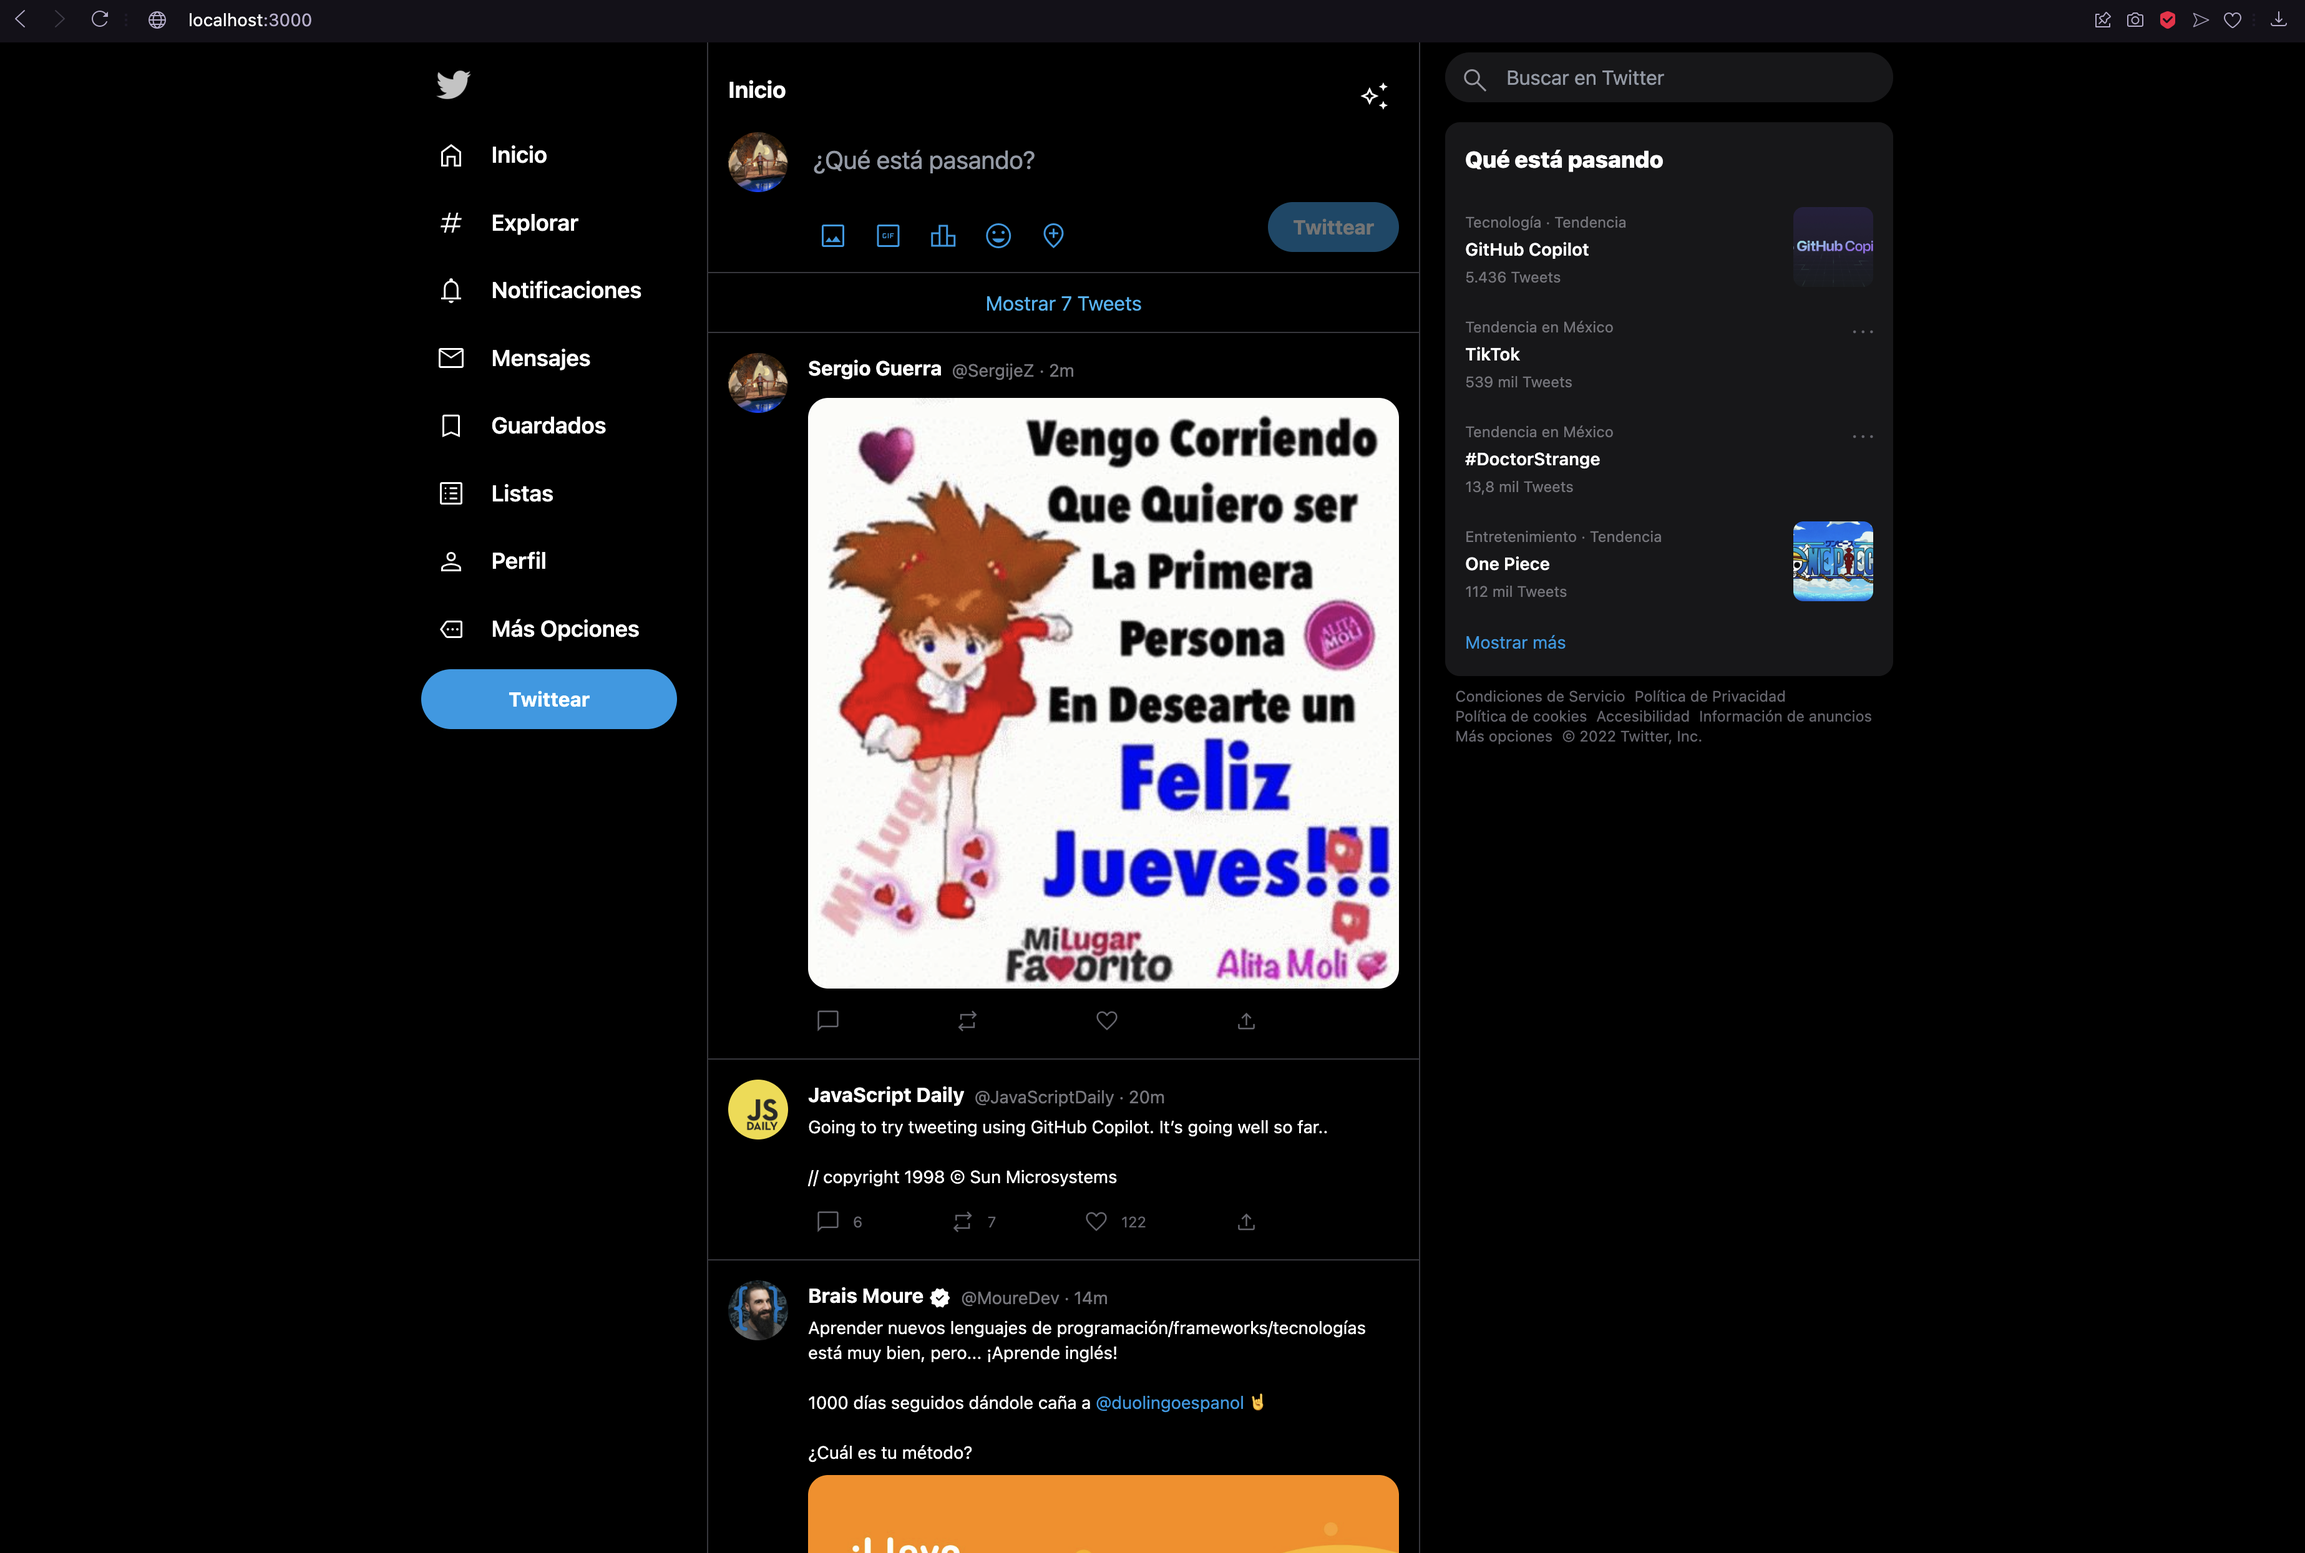
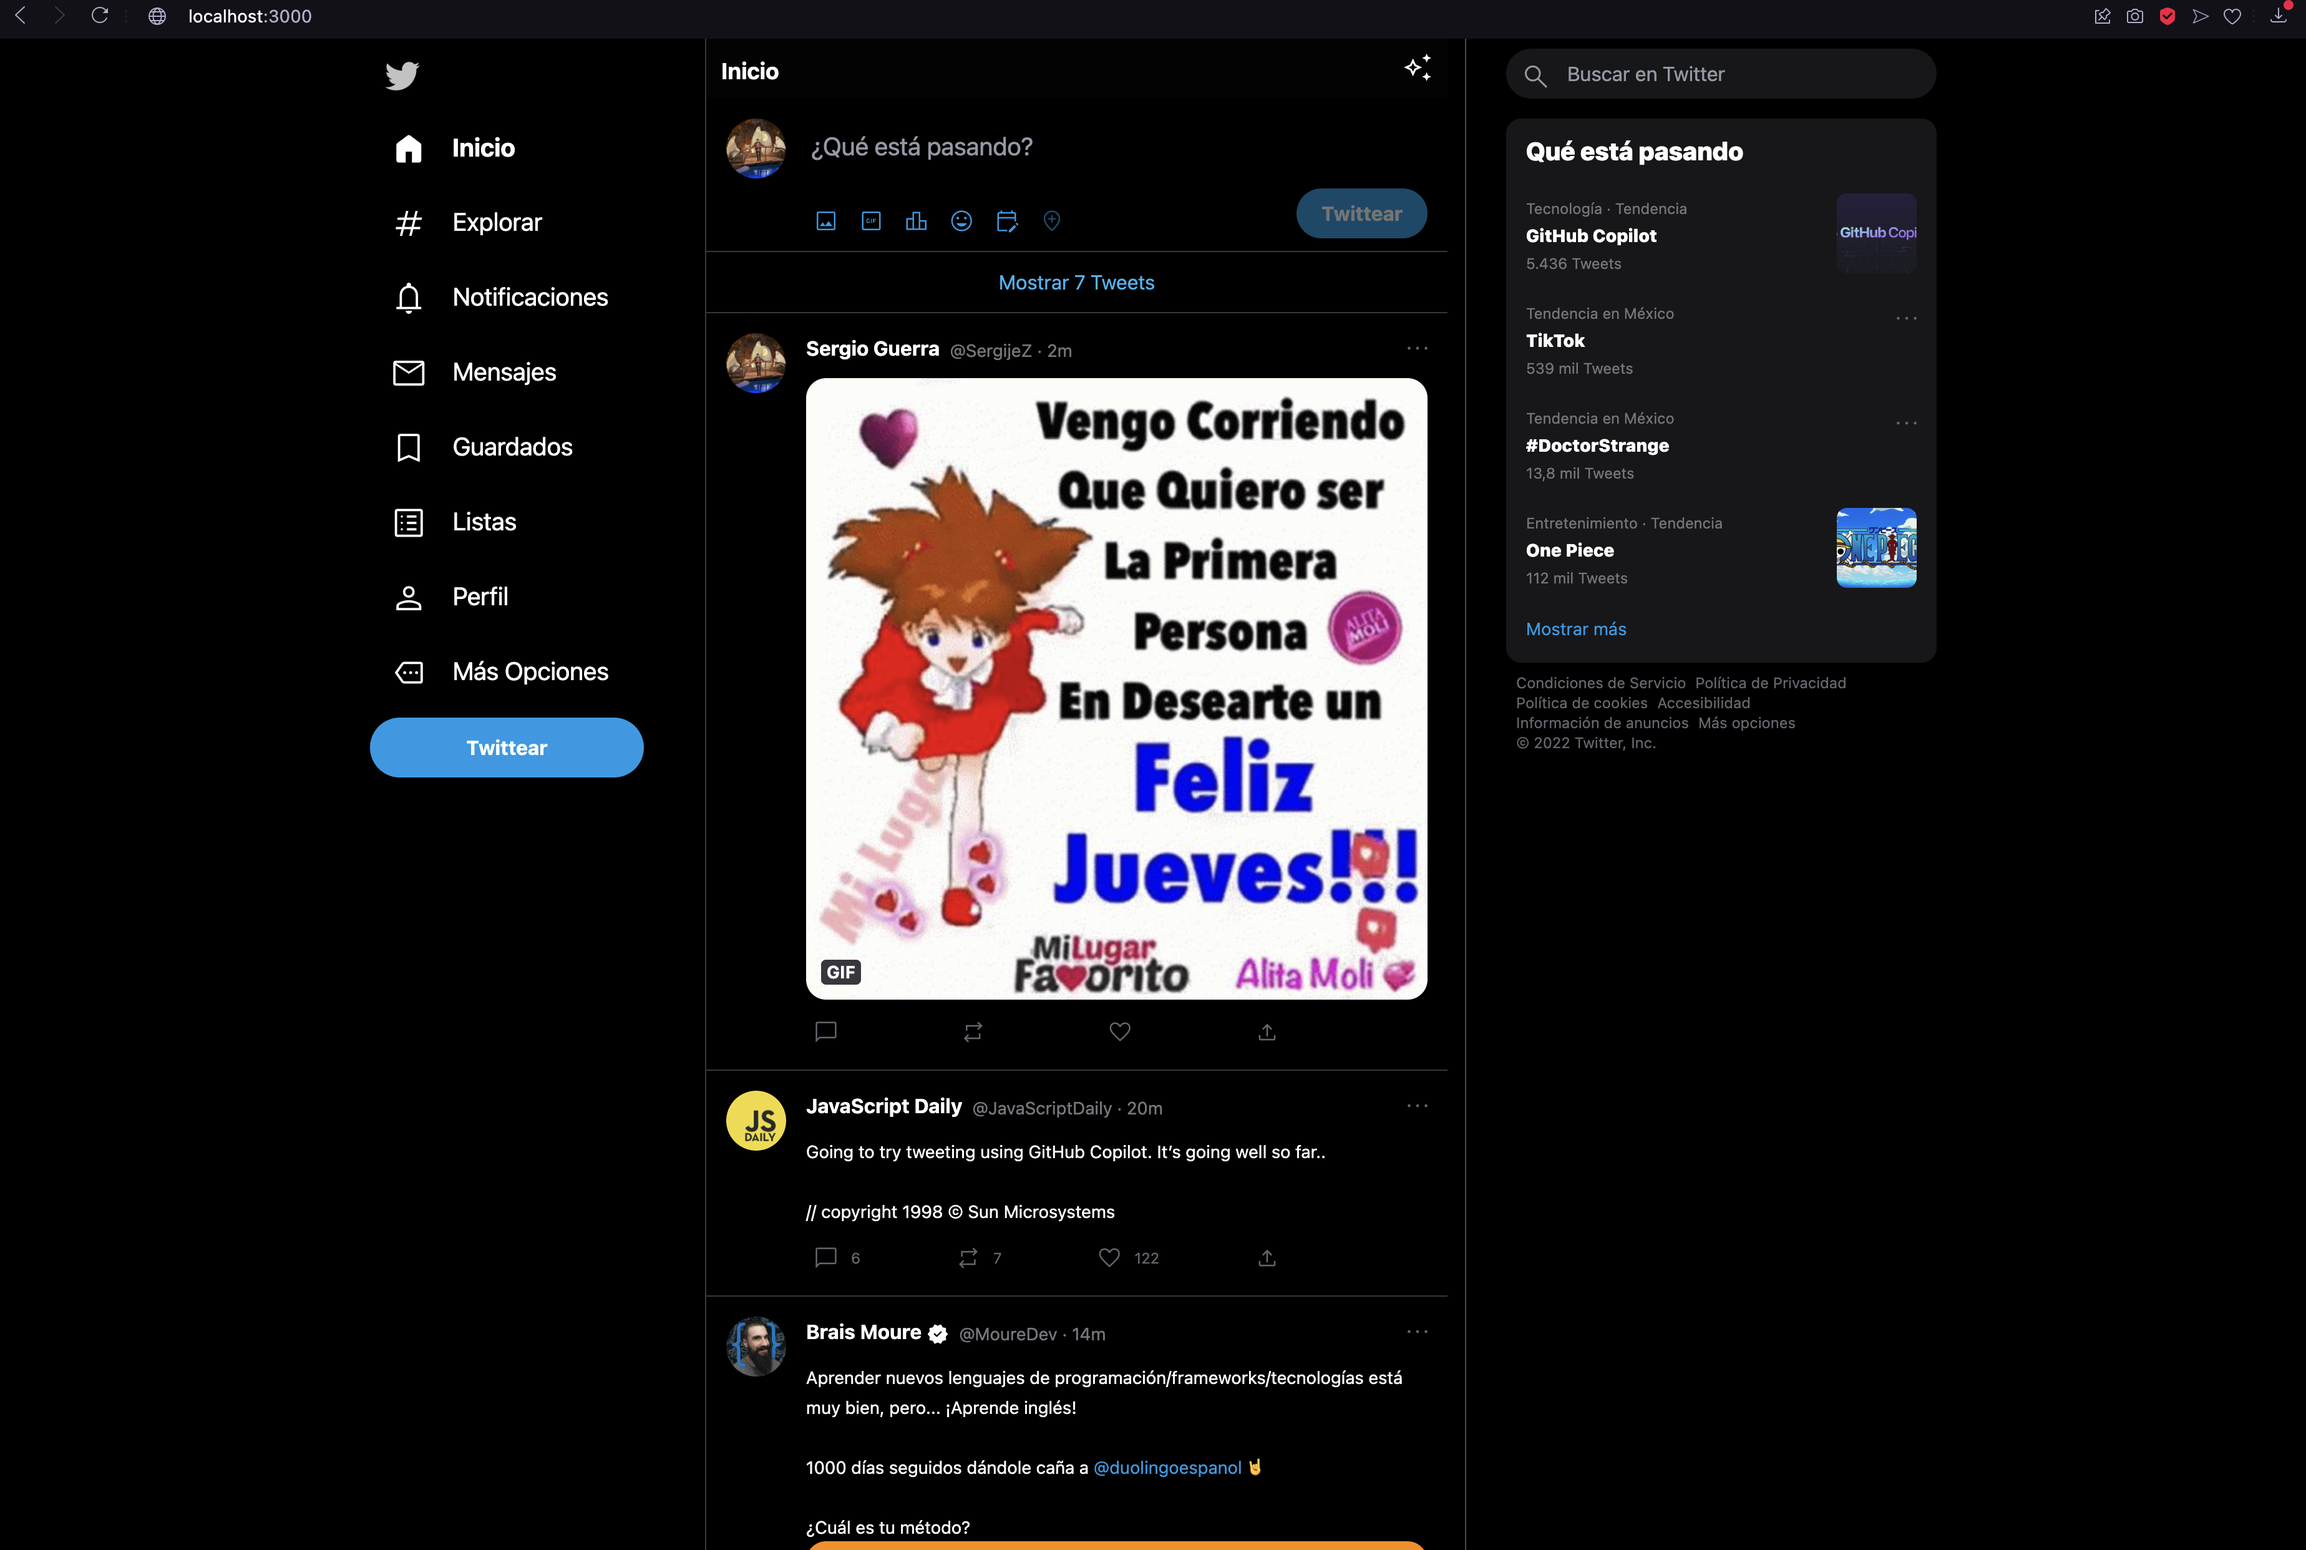
Build: Similar desktop disposition

diff --git a/src/components/TweetNavigation.svelte b/src/components/TweetNavigation.svelte
@@ -11,9 +11,11 @@
 
     const navigationList = [
       {
-        label: 'Twitter', type: NAVIGATION_ITEM_TYPES.ImageOnly, icon: 'https://cdn-icons-png.flaticon.com/512/733/733579.png', selected: true,
+        label: 'Twitter', type: NAVIGATION_ITEM_TYPES.ImageOnly, icon: 'https://cdn-icons-png.flaticon.com/512/733/733579.png',
       },
-      { label: 'Inicio', type: NAVIGATION_ITEM_TYPES.FontIcon, icon: 'e88a' },
+      {
+        label: 'Inicio', type: NAVIGATION_ITEM_TYPES.FontIcon, icon: 'e88a', selected: true,
+      },
       { label: 'Explorar', type: NAVIGATION_ITEM_TYPES.FontIcon, icon: 'e9ef' },
       { label: 'Notificaciones', type: NAVIGATION_ITEM_TYPES.FontIcon, icon: 'e7f4' },
       { label: 'Mensajes', type: NAVIGATION_ITEM_TYPES.FontIcon, icon: 'e158' },
@@ -28,24 +30,23 @@
 <section class="relative w-2/5 float-right">
     <ul class="cursor-default fixed">
         {#each navigationList as navigationItem}
-            <li class="m-2" class:fontBold="{navigationItem.selected === true}">
+            <li class="py-1 {navigationItem.selected ? 'font-bold' : ''}">
                 {#if navigationItem.type === NAVIGATION_ITEM_TYPES.ImageOnly}
                     <button class="hover:bg-sky-900/25 p-3 rounded-full">
-                        <img src={navigationItem.icon} alt={navigationItem.label} class="w-7 grayscale brightness-200">
+                        <img src={navigationItem.icon} alt={navigationItem.label} class="w-7 grayscale brightness-200 contrast-200">
                     </button>
                 {:else if navigationItem.type === NAVIGATION_ITEM_TYPES.Button}
                     <TweetButton className="w-full py-3 " value={navigationItem.label}/>
                 {:else}
-                    <button class="hover:bg-neutral-900 rounded-3xl inline py-2 px-2">
+                    <button class="hover:bg-neutral-900 rounded-3xl inline py-1.5 px-3">
                         {#if navigationItem.type === NAVIGATION_ITEM_TYPES.Image || navigationItem.type === NAVIGATION_ITEM_TYPES.ImageOnly}
                             <img src={navigationItem.icon} alt={navigationItem.label} class="w-6">
                         {:else if navigationItem.type === NAVIGATION_ITEM_TYPES.FontIcon}
-                            <TweetIcon icon={navigationItem.icon} className="align-middle pb-1 pl-1"/>
+                            <TweetIcon icon={navigationItem.icon} className="align-middle pb-1 pl-1 text-3xl" variation={navigationItem.selected ? 'rounded' : 'outlined'}/>
                         {/if}
-                        <span class="mx-4 font-semibold text-lg">{navigationItem.label}</span>
+                        <span class="mx-4 text-xl">{navigationItem.label}</span>
                     </button>
                 {/if}
-
             </li>
         {/each}
     </ul>

diff --git a/src/components/TweetFeedHeader.svelte b/src/components/TweetFeedHeader.svelte
@@ -44,21 +44,21 @@
     <section class="flex justify-between my-2 " >
         <TweetAvatar src={avatarSrc} className="mr-5"/>
         <section class="grow">
-            <div class="border w-24 mb-2 border-sky-100/50 text-sky-500 rounded-3xl text-xs font-bold text-center cursor-pointer hover:bg-sky-900/25 {isTweetFocused ? 'visible' : 'hidden'}">
-                <span>Público</span>
+            <div class="border w-24 mb-2 border-sky-100/50 text-sky-500 rounded-3xl text-sm font-semibold text-center cursor-pointer hover:bg-sky-900/25 {isTweetFocused ? 'visible' : 'hidden'}">
+                <span class="align-middle">Público</span>
                 <TweetIcon icon={Icons.ExpandMore} className="align-middle"/>
             </div>
             <textarea rows={tweetRows} class="bg-black outline-none w-full resize-none peer text-xl h-10 pt-2 overflow-hidden" placeholder="¿Qué está pasando?" on:keyup={onTweetKeyUp} on:input={onTweetInput} on:focus={onTweetFocus} bind:value={tweetContent}/>
         </section>
     </section>
     <section class="flex justify-between">
-        <section class="pl-16 pt-2">
-            <TweetIconButton icon={Icons.Image} className="text-sky-500 hover:bg-sky-900/25"/>
-            <TweetIconButton icon={Icons.GifBox} className="text-sky-500 hover:bg-sky-900/25"/>
-            <TweetIconButton icon={Icons.Leaderboard} className="text-sky-500 hover:bg-sky-900/25"/>
-            <TweetIconButton icon={Icons.Mood} className="text-sky-500 hover:bg-sky-900/25"/>
-            <TweetIconButton icon={Icons.EditCalendar} className="text-sky-500 hover:bg-sky-900/25"/>
-            <TweetIconButton icon={Icons.AddLocation} className="text-sky-500/50 hover:bg-sky-900/25" disabled={true}/>
+        <section class="pl-16 pt-2 shrink w-80">
+            <TweetIconButton icon={Icons.Image} className="text-sky-500 hover:bg-sky-900/25" iconClassName="text-xl" size="sm"/>
+            <TweetIconButton icon={Icons.GifBox} className="text-sky-500 hover:bg-sky-900/25" iconClassName="text-xl"size="sm"/>
+            <TweetIconButton icon={Icons.Leaderboard} className="text-sky-500 hover:bg-sky-900/25" iconClassName="text-xl" size="sm"/>
+            <TweetIconButton icon={Icons.Mood} className="text-sky-500 hover:bg-sky-900/25" iconClassName="text-xl" size="sm"/>
+            <TweetIconButton icon={Icons.EditCalendar} className="text-sky-500 hover:bg-sky-900/25" iconClassName="text-xl" size="sm"/>
+            <TweetIconButton icon={Icons.AddLocation} className="text-sky-500/50 hover:bg-sky-900/25" disabled={true} iconClassName="text-xl" size="sm"/>
         </section>
         <TweetButton value="Twittear" className="justify-end h-10 {!isTweetActive ? 'opacity-50 cursor-default' : ''}"/>
     </section>

diff --git a/src/views/TweetFeed.svelte b/src/views/TweetFeed.svelte
@@ -109,13 +109,13 @@
   ]
 </script>
 
-<section class="flex flex-col relative">
+<section class="flex flex-col relative w-11/12">
     <header class="h-12 left-0 top-0 flex justify-between w-full backdrop-blur sticky bg-zinc-900/25 p-1 z-10 cursor-pointer">
         <span class="font-bold text-lg p-2">Inicio</span>
         <TweetIconButton icon={Icons.AutoAwesome} className="hover:bg-zinc-400/25"/>
     </header>
     <TweetFeedHeader className="shrink"/>
-    <span class="h-12 text-center py-3 border-b border-zinc-700 hover:bg-zinc-900/50 cursor-pointer text-sky-400">Mostrar 7 Tweets</span>
+    <span class="h-13 text-center py-3 border-b border-zinc-700 hover:bg-zinc-900/50 cursor-pointer text-sky-400">Mostrar 7 Tweets</span>
     <ul class="grow">
         {#each tweets as tweet}
             <Tweet tweet={tweet}/>

diff --git a/src/components/TweetBoxItem.svelte b/src/components/TweetBoxItem.svelte
@@ -15,6 +15,6 @@
         <TweetIconButton icon={Icons.MoreHorizontal} size="sm" className="text-sm absolute right-2 top-2 text-zinc-500 hover:bg-sky-900/25 hover:text-sky-500"/>
     {/if}
     <span class="text-zinc-400/75 text-xs py-1">{boxItem.topic}</span>
-    <span class="text-white text-sm font-semibold">{boxItem.name}</span>
+    <span class="text-white text-sm font-extrabold">{boxItem.name}</span>
     <span class="text-zinc-400/75 text-xs py-1">{`${boxItem.tweets} Tweets`}</span>
 </li>

diff --git a/src/views/RightPane.svelte b/src/views/RightPane.svelte
@@ -20,8 +20,8 @@
       ],
     }
 </script>
-<section class="border-l border-zinc-700 float-right w-8/12 relative">
-    <section class="w-full sticky top-0 left-0 pl-5 py-2">
+<section class="border-l border-zinc-600 float-right w-7/12 relative -m-10">
+    <section class="w-full sticky top-0 left-0 pl-8 py-2">
       <TweetSearchInput/>
       <TweetBox boxData={boxData}/>
     </section>

diff --git a/src/components/TweetBox.svelte b/src/components/TweetBox.svelte
@@ -12,7 +12,7 @@
 </script>
 
 <section class="rounded-xl mt-4 bg-zinc-900">
-    <h1 class="text-lg font-extrabold py-4 mx-4">{boxData.name}</h1>
+    <h1 class="text-xl font-extrabold py-3 mx-4">{boxData.name}</h1>
     <ul class="w-full cursor-pointer">
         {#each boxData.items as boxItem}
             <TweetBoxItem boxItem={boxItem}/>

diff --git a/src/App.svelte b/src/App.svelte
@@ -4,7 +4,7 @@
   import RightPane from './views/RightPane.svelte'
 </script>
 
-<main class="grid grid-cols-3 w-11/12">
+<main class="grid grid-cols-3 -ml-20">
   <LeftPane/>
   <TweetFeed/>
   <RightPane/>

diff --git a/COMMENTS.md b/COMMENTS.md
@@ -33,7 +33,7 @@ First part will be setting up all what is needed for the project, doing the plan
 Here I plan to spend most of my time building views and components to display the data in the required way for the challenge, also defining the mocks to be used so that they are easily loaded in the views.
 
 ### Refine
-Here I will make sure that nothing is missing in the pages and components built and add the most important tests to ensure it (No test framework has been chosen yet). 
+Here I will make sure that nothing is missing in the pages and components built. 
 
 ### Deliver
 Getting a server to deploy the project and raise the pull request to complete the challenge (No hosting has been chosen yet).
